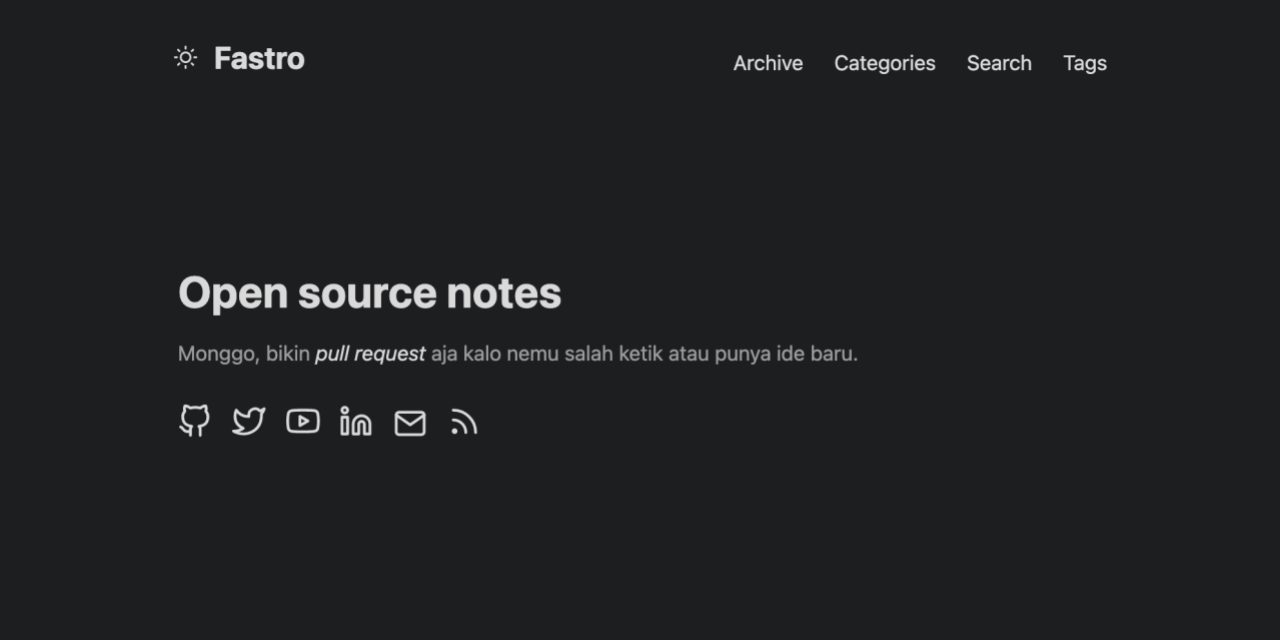
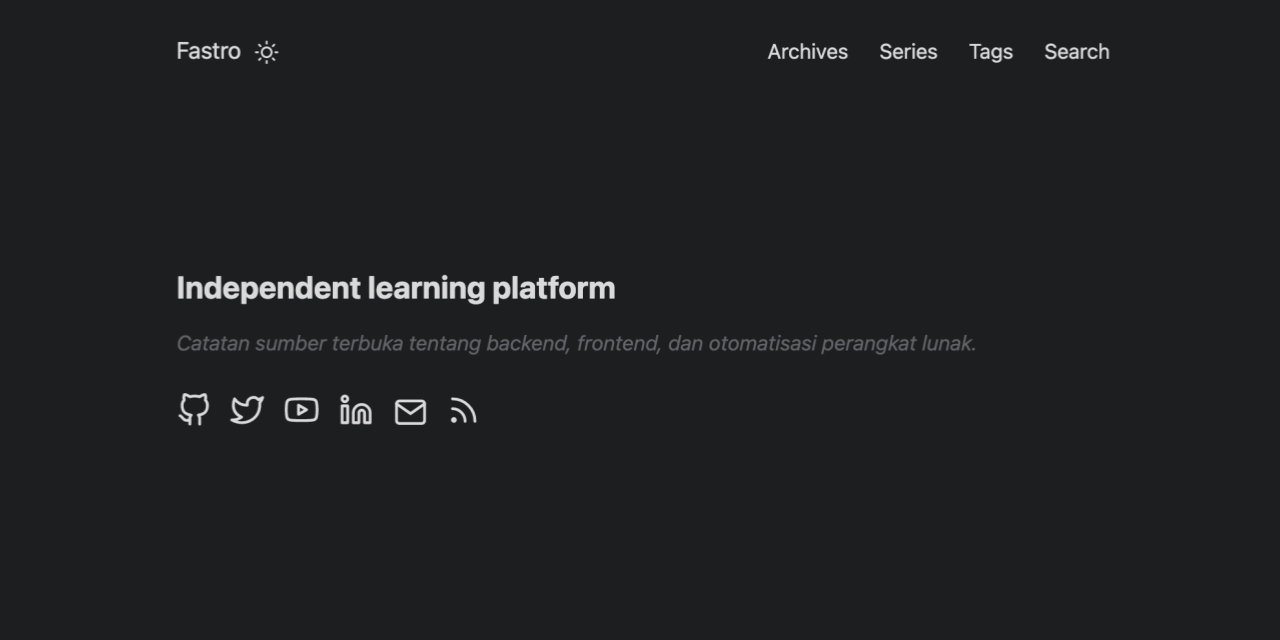
update seo.png

diff --git a/content/archives.md b/content/archives.md
@@ -1,5 +1,5 @@
 ---
-title: "Archive"
+title: "Archives"
 layout: "archives"
 # url: "/archives"
 summary: "archives"
